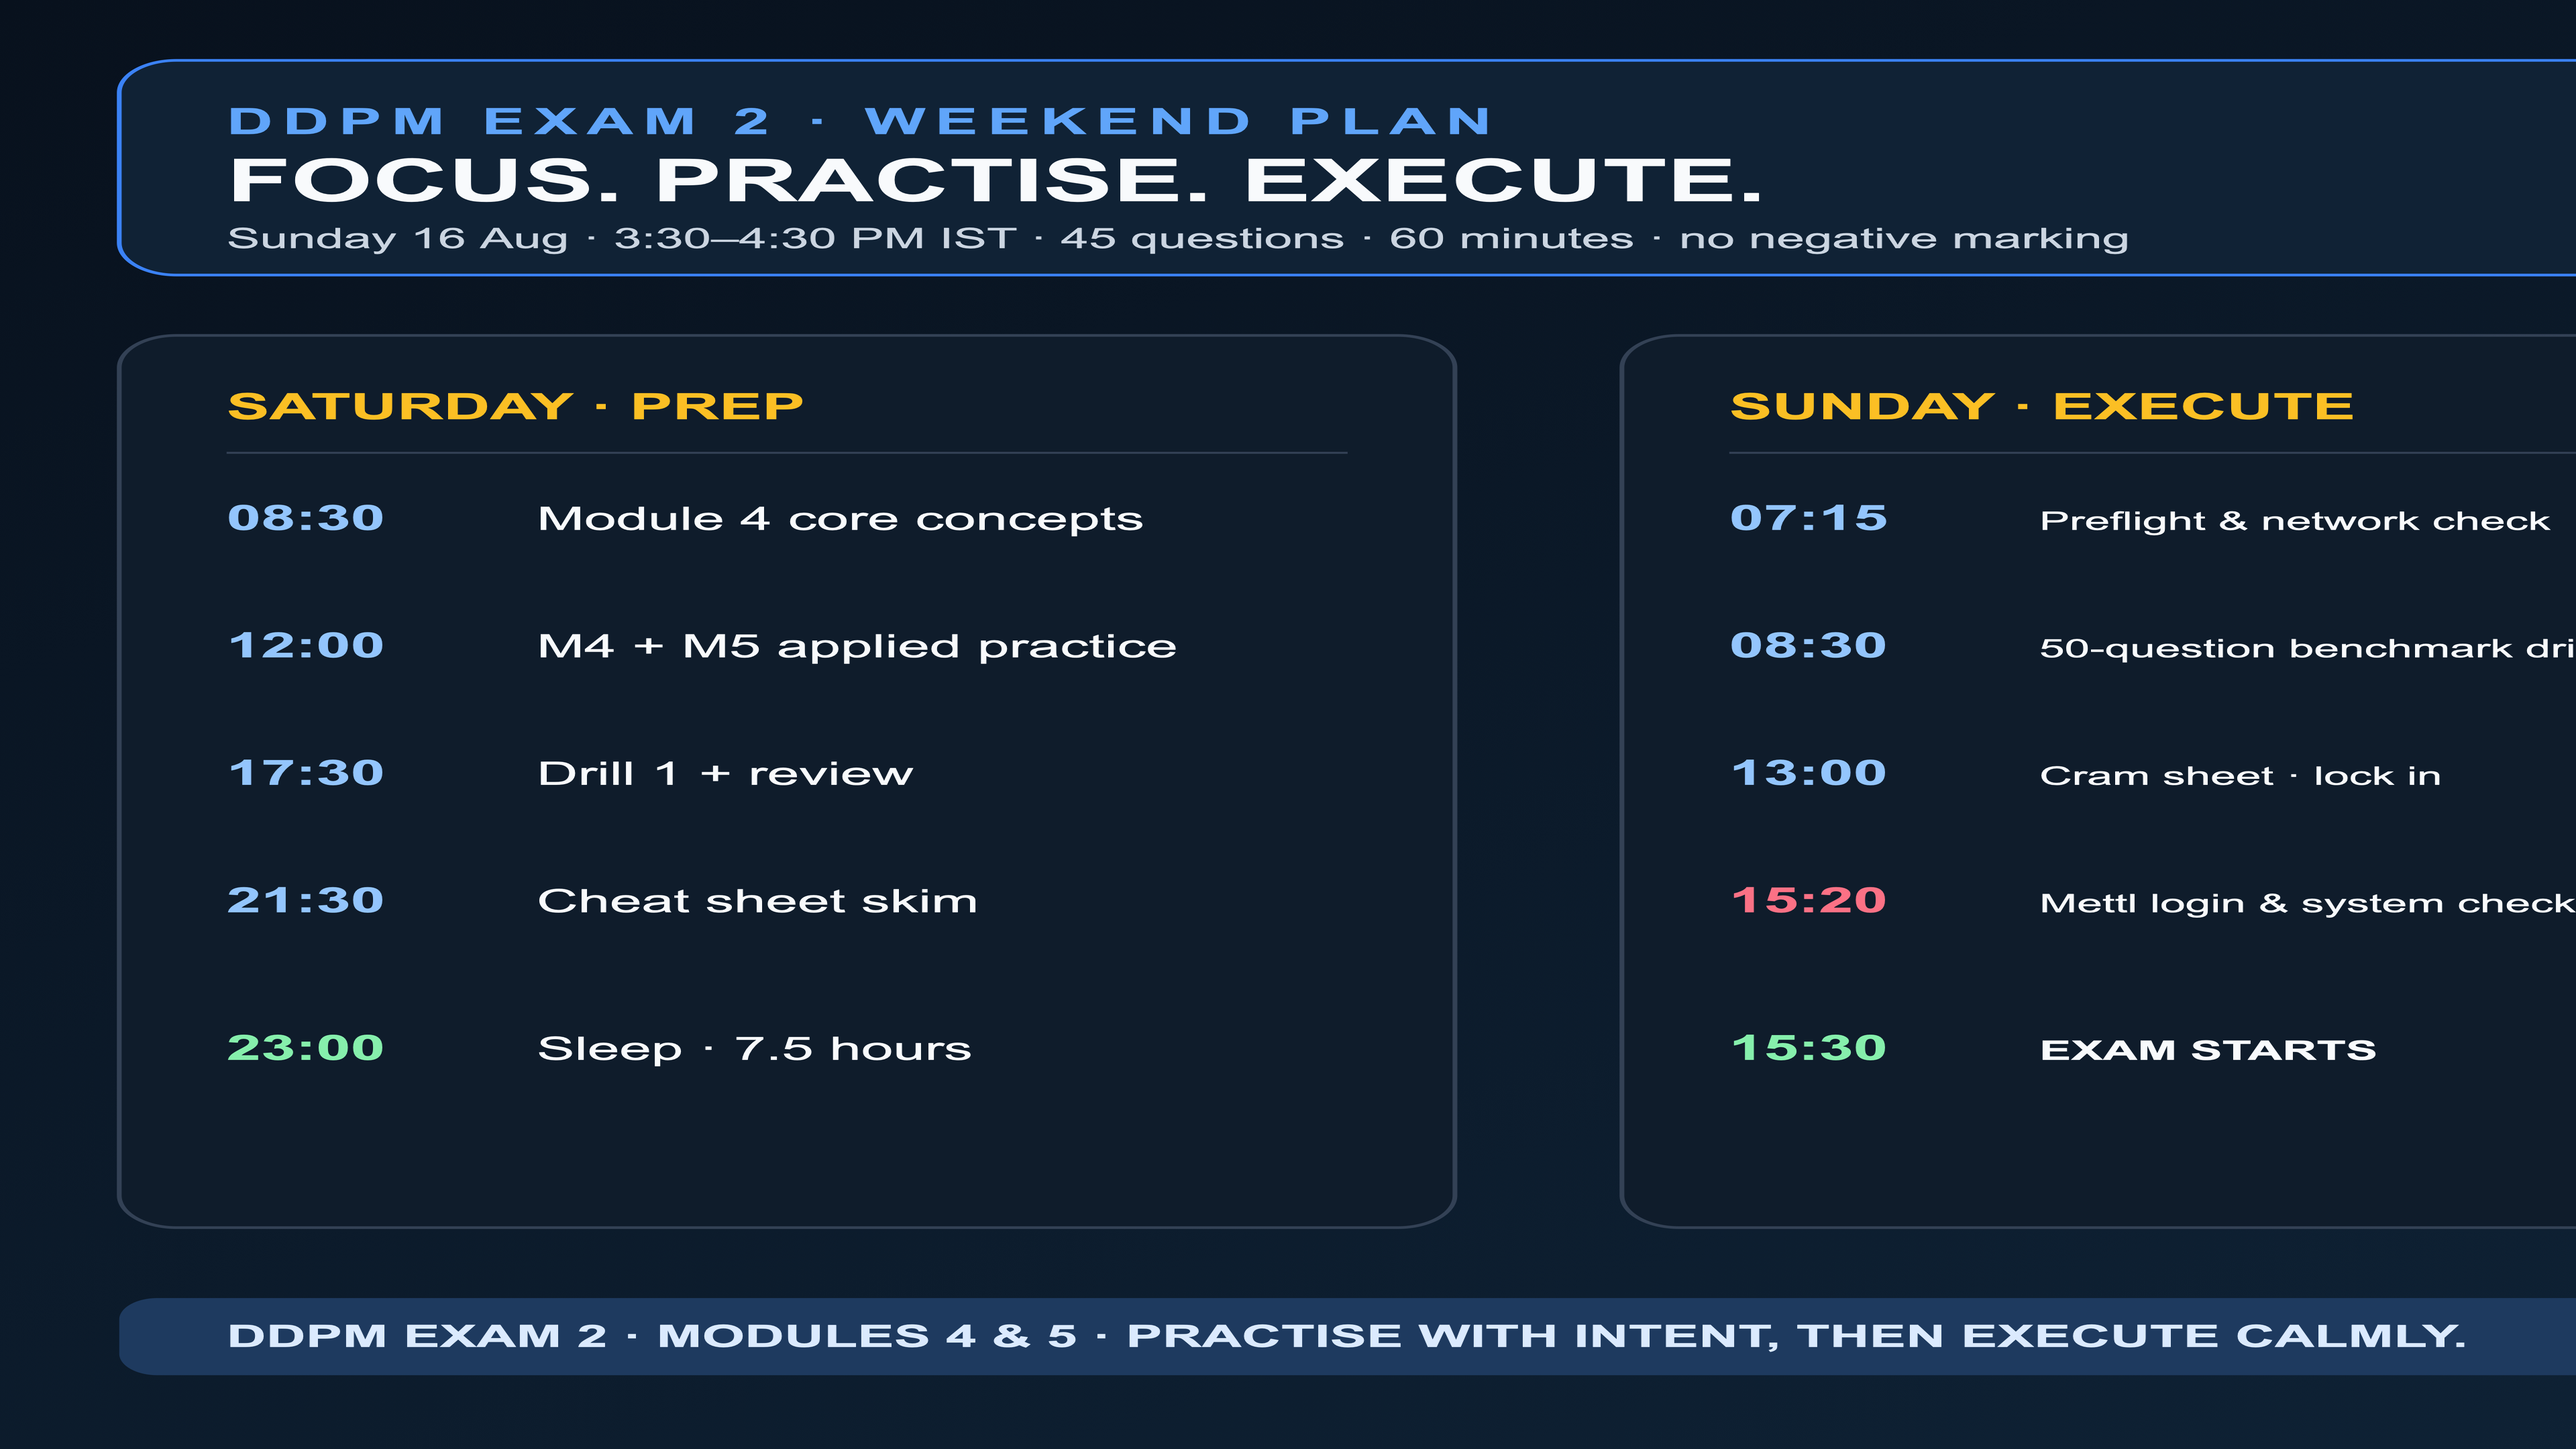
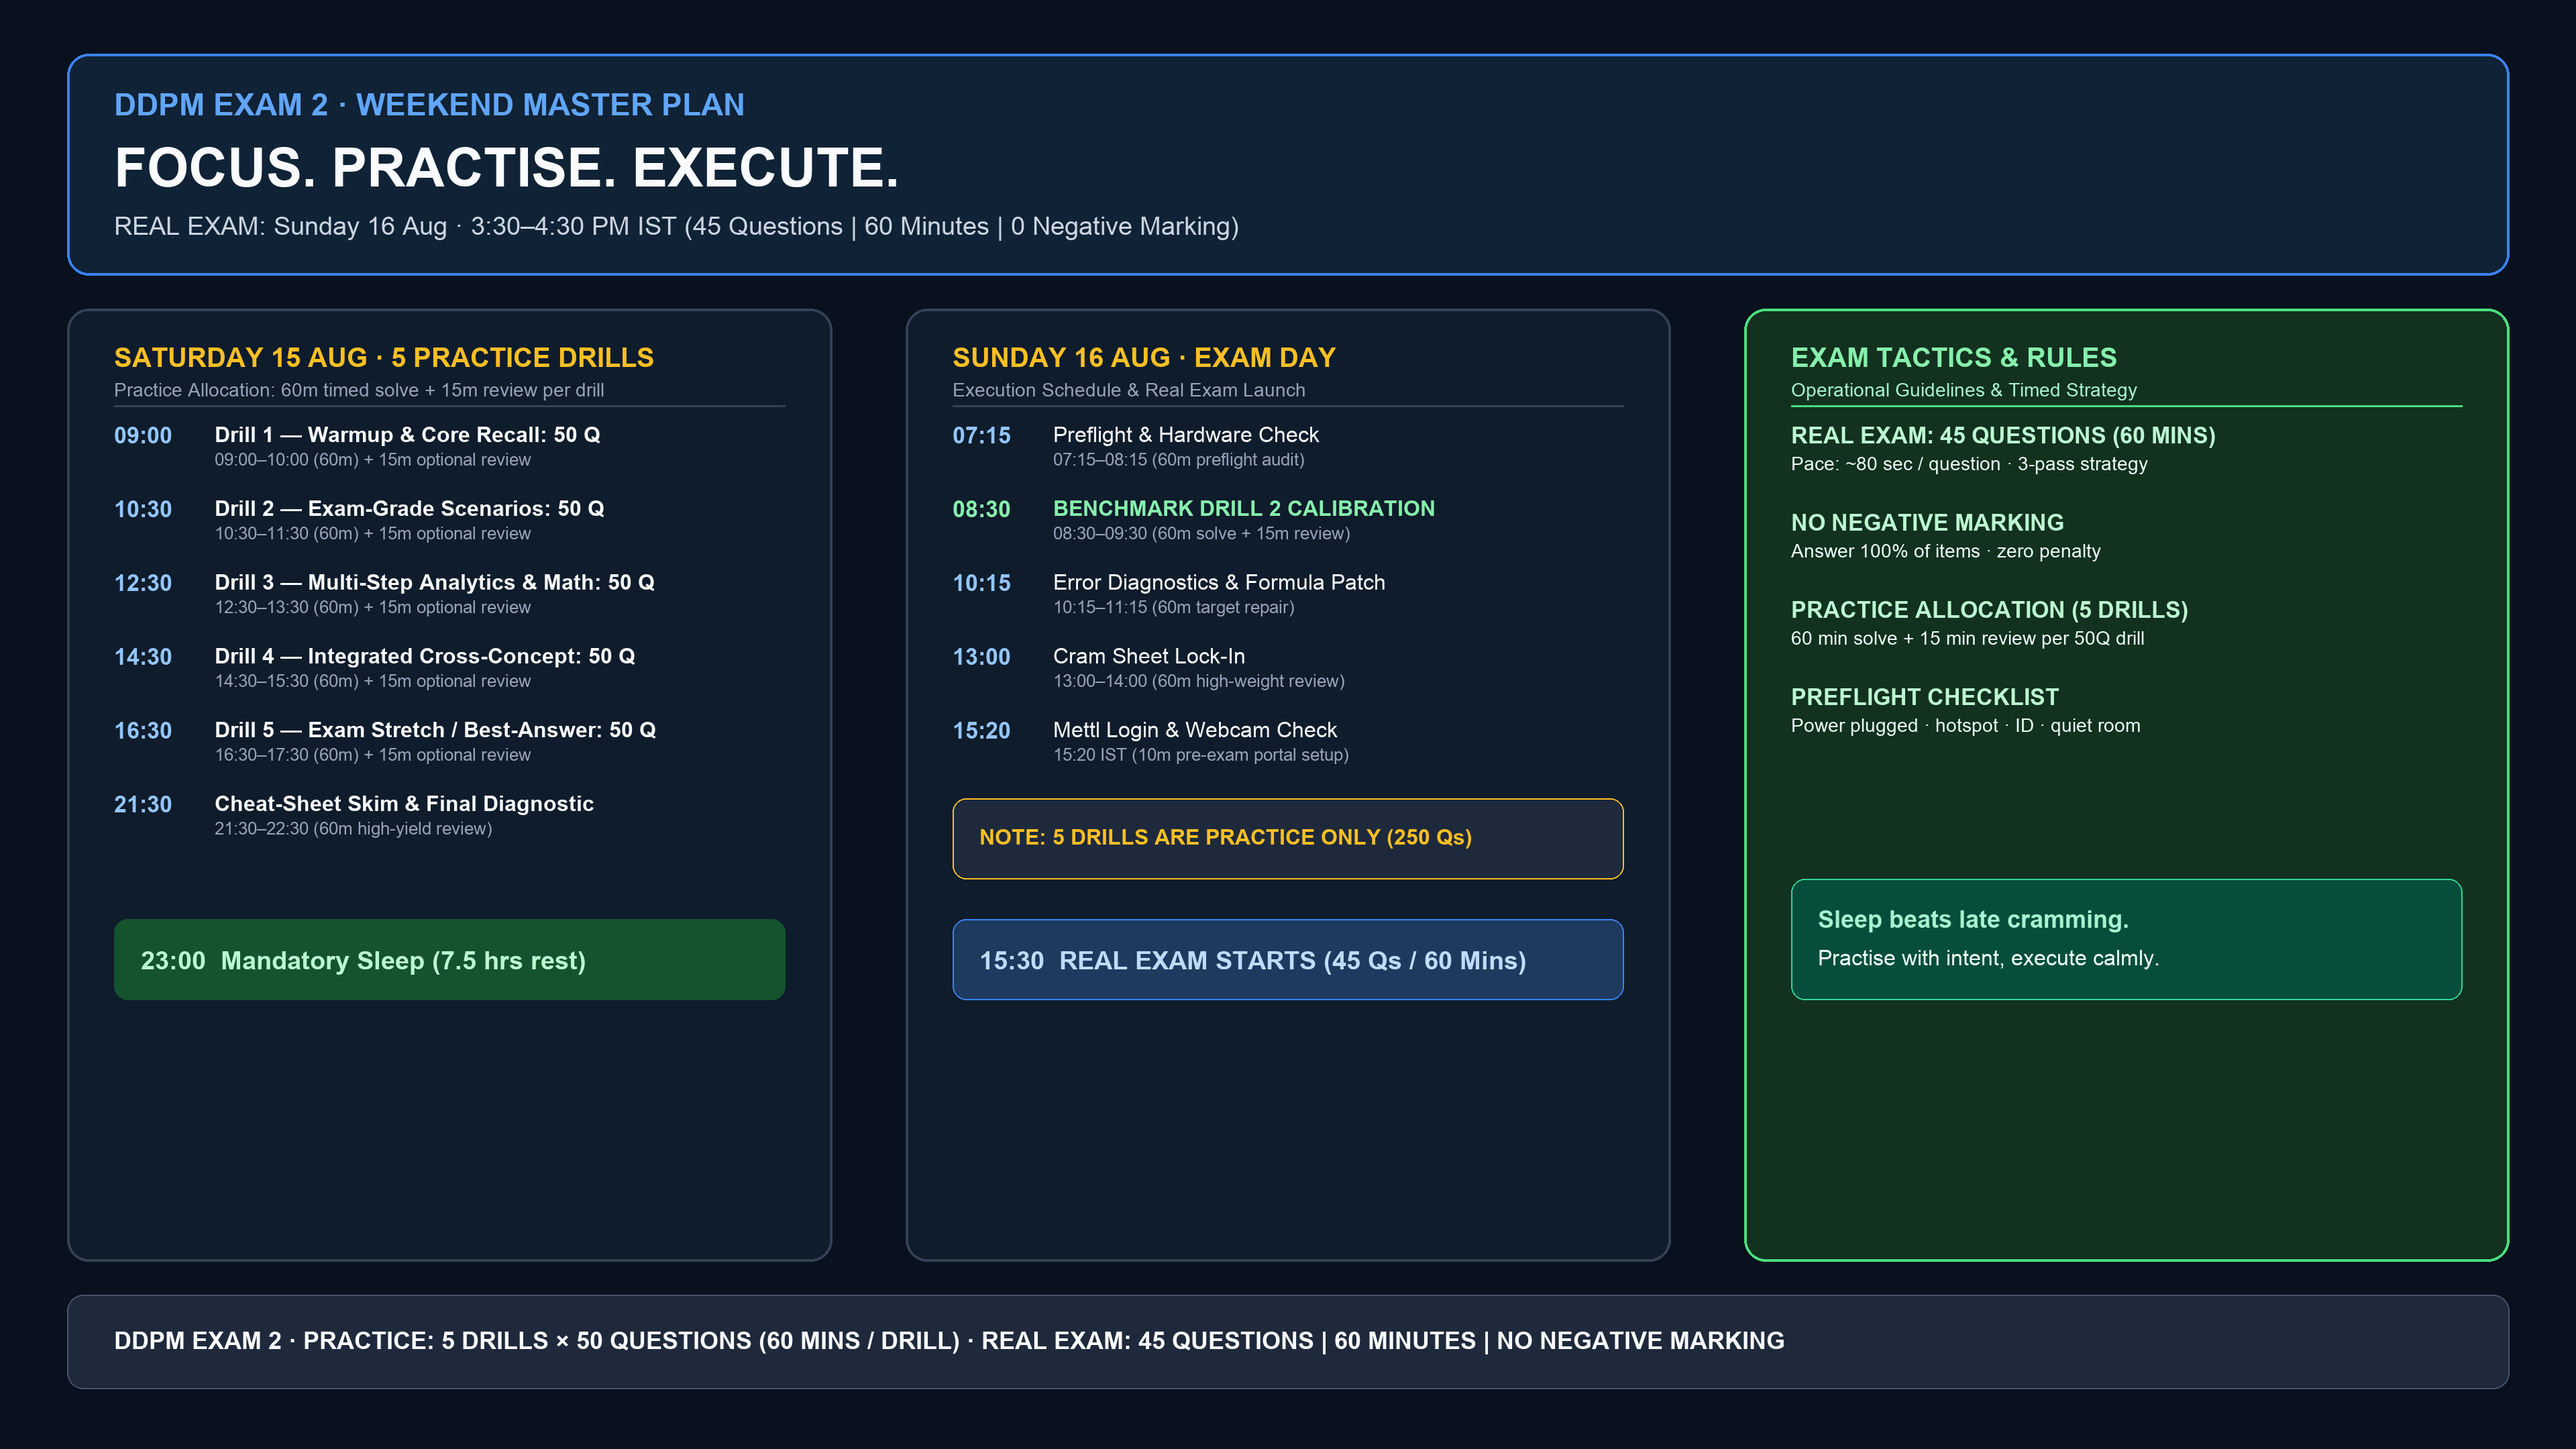
fix(exam2): publish PNG-only practice-drill wallpapers

diff --git a/pages/exam-prep.html b/pages/exam-prep.html
@@ -165,9 +165,7 @@
                 <strong style="font-size: 0.85rem; color: #0369a1; display: block; margin-bottom: 0.5rem;">Wallpapers</strong>
                 <div class="mcq-download-grid">
                   <a href="../assets/downloads/exam-2/phone-schedule-wallpaper.png" download="phone-schedule-wallpaper.png" class="mcq-download-btn"><span class="btn-icon" aria-hidden="true">📱</span> Phone Wallpaper <small>(PNG)</small></a>
-                  <a href="../assets/downloads/exam-2/phone-schedule-wallpaper.svg" download="phone-schedule-wallpaper.svg" class="mcq-download-btn"><span class="btn-icon" aria-hidden="true">📱</span> Phone Wallpaper <small>(SVG)</small></a>
                   <a href="../assets/downloads/exam-2/desktop-schedule-wallpaper.png" download="desktop-schedule-wallpaper.png" class="mcq-download-btn"><span class="btn-icon" aria-hidden="true">🖥</span> Desktop Wallpaper <small>(PNG)</small></a>
-                  <a href="../assets/downloads/exam-2/desktop-schedule-wallpaper.svg" download="desktop-schedule-wallpaper.svg" class="mcq-download-btn"><span class="btn-icon" aria-hidden="true">🖥</span> Desktop Wallpaper <small>(SVG)</small></a>
                 </div>
               </div>
             </div>
